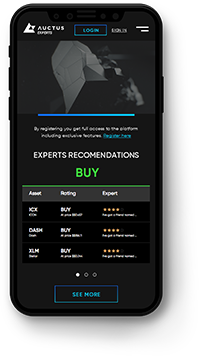
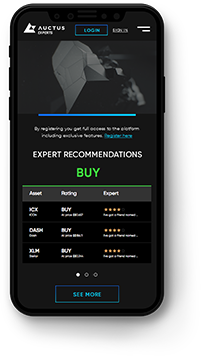
text adjusments

diff --git a/Web/src/app/components/hot-site/be-an-expert/be-an-expert.component.html b/Web/src/app/components/hot-site/be-an-expert/be-an-expert.component.html
@@ -8,11 +8,11 @@
     <img ngClass.gt-sm="expert-image" ngClass.lt-md="expert-image-mobile" src="./assets/img/Img_Banner2.png">
     <div class="global-container">
       <div class="itens-list" fxFlex.gt-sm="46" fxFlex.lt-md="100" fxFlexOffset.gt-sm="54" fxFlexOffset.lt-md="0">
-        <div fxLayout="row" fxLayoutAlign="start start"><fa-icon icon="chevron-right" size="xs"></fa-icon><span>Become an Expert and monetize your trading know how</span></div>
+        <div fxLayout="row" fxLayoutAlign="start start"><fa-icon icon="chevron-right" size="xs"></fa-icon><span>Become an Auctus Expert and monetize your trading know how</span></div>
         <div fxLayout="row" fxLayoutAlign="start start"><fa-icon icon="chevron-right" size="xs"></fa-icon><span>Build your audience, while increasing your reach for monetization</span></div>
-        <div fxLayout="row" fxLayoutAlign="start start"><fa-icon icon="chevron-right" size="xs"></fa-icon><span>Lucrative commissions just by giving trading advice</span></div>
+        <div fxLayout="row" fxLayoutAlign="start start"><fa-icon icon="chevron-right" size="xs"></fa-icon><span>Lucrative commissions by giving trading advice</span></div>
         <div fxLayout="row" fxLayoutAlign="start start"><fa-icon icon="chevron-right" size="xs"></fa-icon><span>No Joining fees for Experts</span></div>
-        <div fxLayout="row" fxLayoutAlign="start start"><fa-icon icon="chevron-right" size="xs"></fa-icon><span>Quick and easy startup with the largest bonuses for early Experts</span></div>
+        <div fxLayout="row" fxLayoutAlign="start start"><fa-icon icon="chevron-right" size="xs"></fa-icon><span>Quick and easy sign up with the largest bonuses for early joiners</span></div>
       </div>
     </div>
   </div>
@@ -22,18 +22,18 @@
     </div>
     <div fxLayout.gt-sm="row" fxLayout.lt-md="column" fxLayoutGap.gt-sm="40px" fxLayoutGap.lt-md="20px" fxLayoutAlign.gt-sm="center stretch" fxLayoutAlign.lt-md="center center">
       <div fxLayout="column" fxLayoutAlign="space-around center" >
-        <div class="profit-item-title">Sign Up Bonus</div>
-        <div class="profit-item-description">Earn just by growing your user base with a referral code</div>
+        <div class="profit-item-title">Sign-up Bonus</div>
+        <div class="profit-item-description">Earn by growing your user base with a referral code</div>
       </div>
       <div class="separator"></div>
       <div fxLayout="column" fxLayoutAlign="space-around center" >
         <div class="profit-item-title">Top Experts of the Month</div>
-        <div class="profit-item-description">Each month, Experts with the highest ranking are rewarded with AUC tokens</div>
+        <div class="profit-item-description">Each month, Experts with the highest rankings are rewarded with AUC tokens</div>
       </div>
       <div class="separator"></div>
       <div fxLayout="column" fxLayoutAlign="space-around center" >
         <div class="profit-item-title">Fast Start Bonus</div>
-        <div class="profit-item-description">Earn even more, just by onboarding enough users within your first 30 days of enrollment</div>
+        <div class="profit-item-description">Earn even more, by onboarding enough users within your first 30 days of enrollment</div>
       </div>
       <div class="separator"></div>
       <div fxLayout="column" fxLayoutAlign="space-around center" >

diff --git a/Web/src/app/components/hot-site/hot-site.component.html b/Web/src/app/components/hot-site/hot-site.component.html
@@ -9,7 +9,7 @@
   <div class="global-container" fxLayout="row" fxLayoutGap="16px">
     <img class="hot-site-phone-image" src.gt-sm="./assets/img/Img_Mobile.png" src.lt-md="./assets/img/Img_Mobile2.png">
     <div fxLayout="column" class="early-access-content">
-      <div class="early-access-description">Follow your favorite expert by tracking their performance and learn trading fundamentals, all while staying in control of your funds.</div>
+      <div class="early-access-description">Follow your favorite Experts by tracking their performance and get to know the trading fundamentals, all while staying in control of your funds.</div>
       <div class="early-access-title">Sign up for early access</div>
       <div fxLayout.gt-sm="row" fxLayoutAlign.gt-sm="start start" fxLayout.lt-md="column" fxLayoutAlign.lt-md="center center" fxLayoutGap.gt-sm="20px" fxLayoutGap.lt-md="5px">
         <inheritance-input #Referral [options]="getEmailInputOptions()" [value]="earlyAccessRequest.email" (onChange)="earlyAccessRequest.email = $event" class="input-modal" ngClass.xs="input-modal-mobile" ngClass.sm="input-modal-tablet" ngClass.gt-sm="input-modal-web" ></inheritance-input>
@@ -24,18 +24,18 @@
       <div fxLayout="column" fxLayoutAlign="center center">
         <div class="icon-wrapper" fxLayoutAlign="center center"><img src="./assets/img/Icon_Graph.png"></div>
         <div class="item-title">Crypto Analysts Recommendation</div>
-        <div class="item-description">Recommendations from experts and cryptocurrencies that you are following.</div>
+        <div class="item-description">Choose and follow the best performing Expert to get real-time trading signals and recommendations.</div>
       </div>
       <div class="separator"></div>
       <div fxLayout="column" fxLayoutAlign="center center">
         <div class="icon-wrapper" fxLayoutAlign="center center"><img src="./assets/img/Icon_Podium.png"></div>
         <div class="item-title">Transparent and Trustful Ranking</div>
-        <div class="item-description">With our ranking system, you’ll be able to choose the right Expert by tracking all their trading performance.</div>
+        <div class="item-description">With our ranking system you’ll be able to choose the right Expert by tracking their trading performance.</div>
       </div>
       <div class="separator"></div>
       <div fxLayout="column" fxLayoutAlign="center center">
         <div class="icon-wrapper" fxLayoutAlign="center center"><img src="./assets/img/Icon_Lock.png"></div>
-        <div class="item-title">No Token Holding Period or Locking</div>
+        <div class="item-title">No Token Locking or Holding Period</div>
         <div class="item-description">Spend your tokens or cash out anytime you want!</div>
       </div>
       <div class="separator" fxHide.gt-sm="true"></div>

diff --git a/Web/src/app/components/hot-site/hot-site.component.css b/Web/src/app/components/hot-site/hot-site.component.css
@@ -68,6 +68,7 @@
     color: #333333;
     margin-bottom: 20px;
     margin-top: 10px;
+    width: 300px;
 }
 
 .itens{
